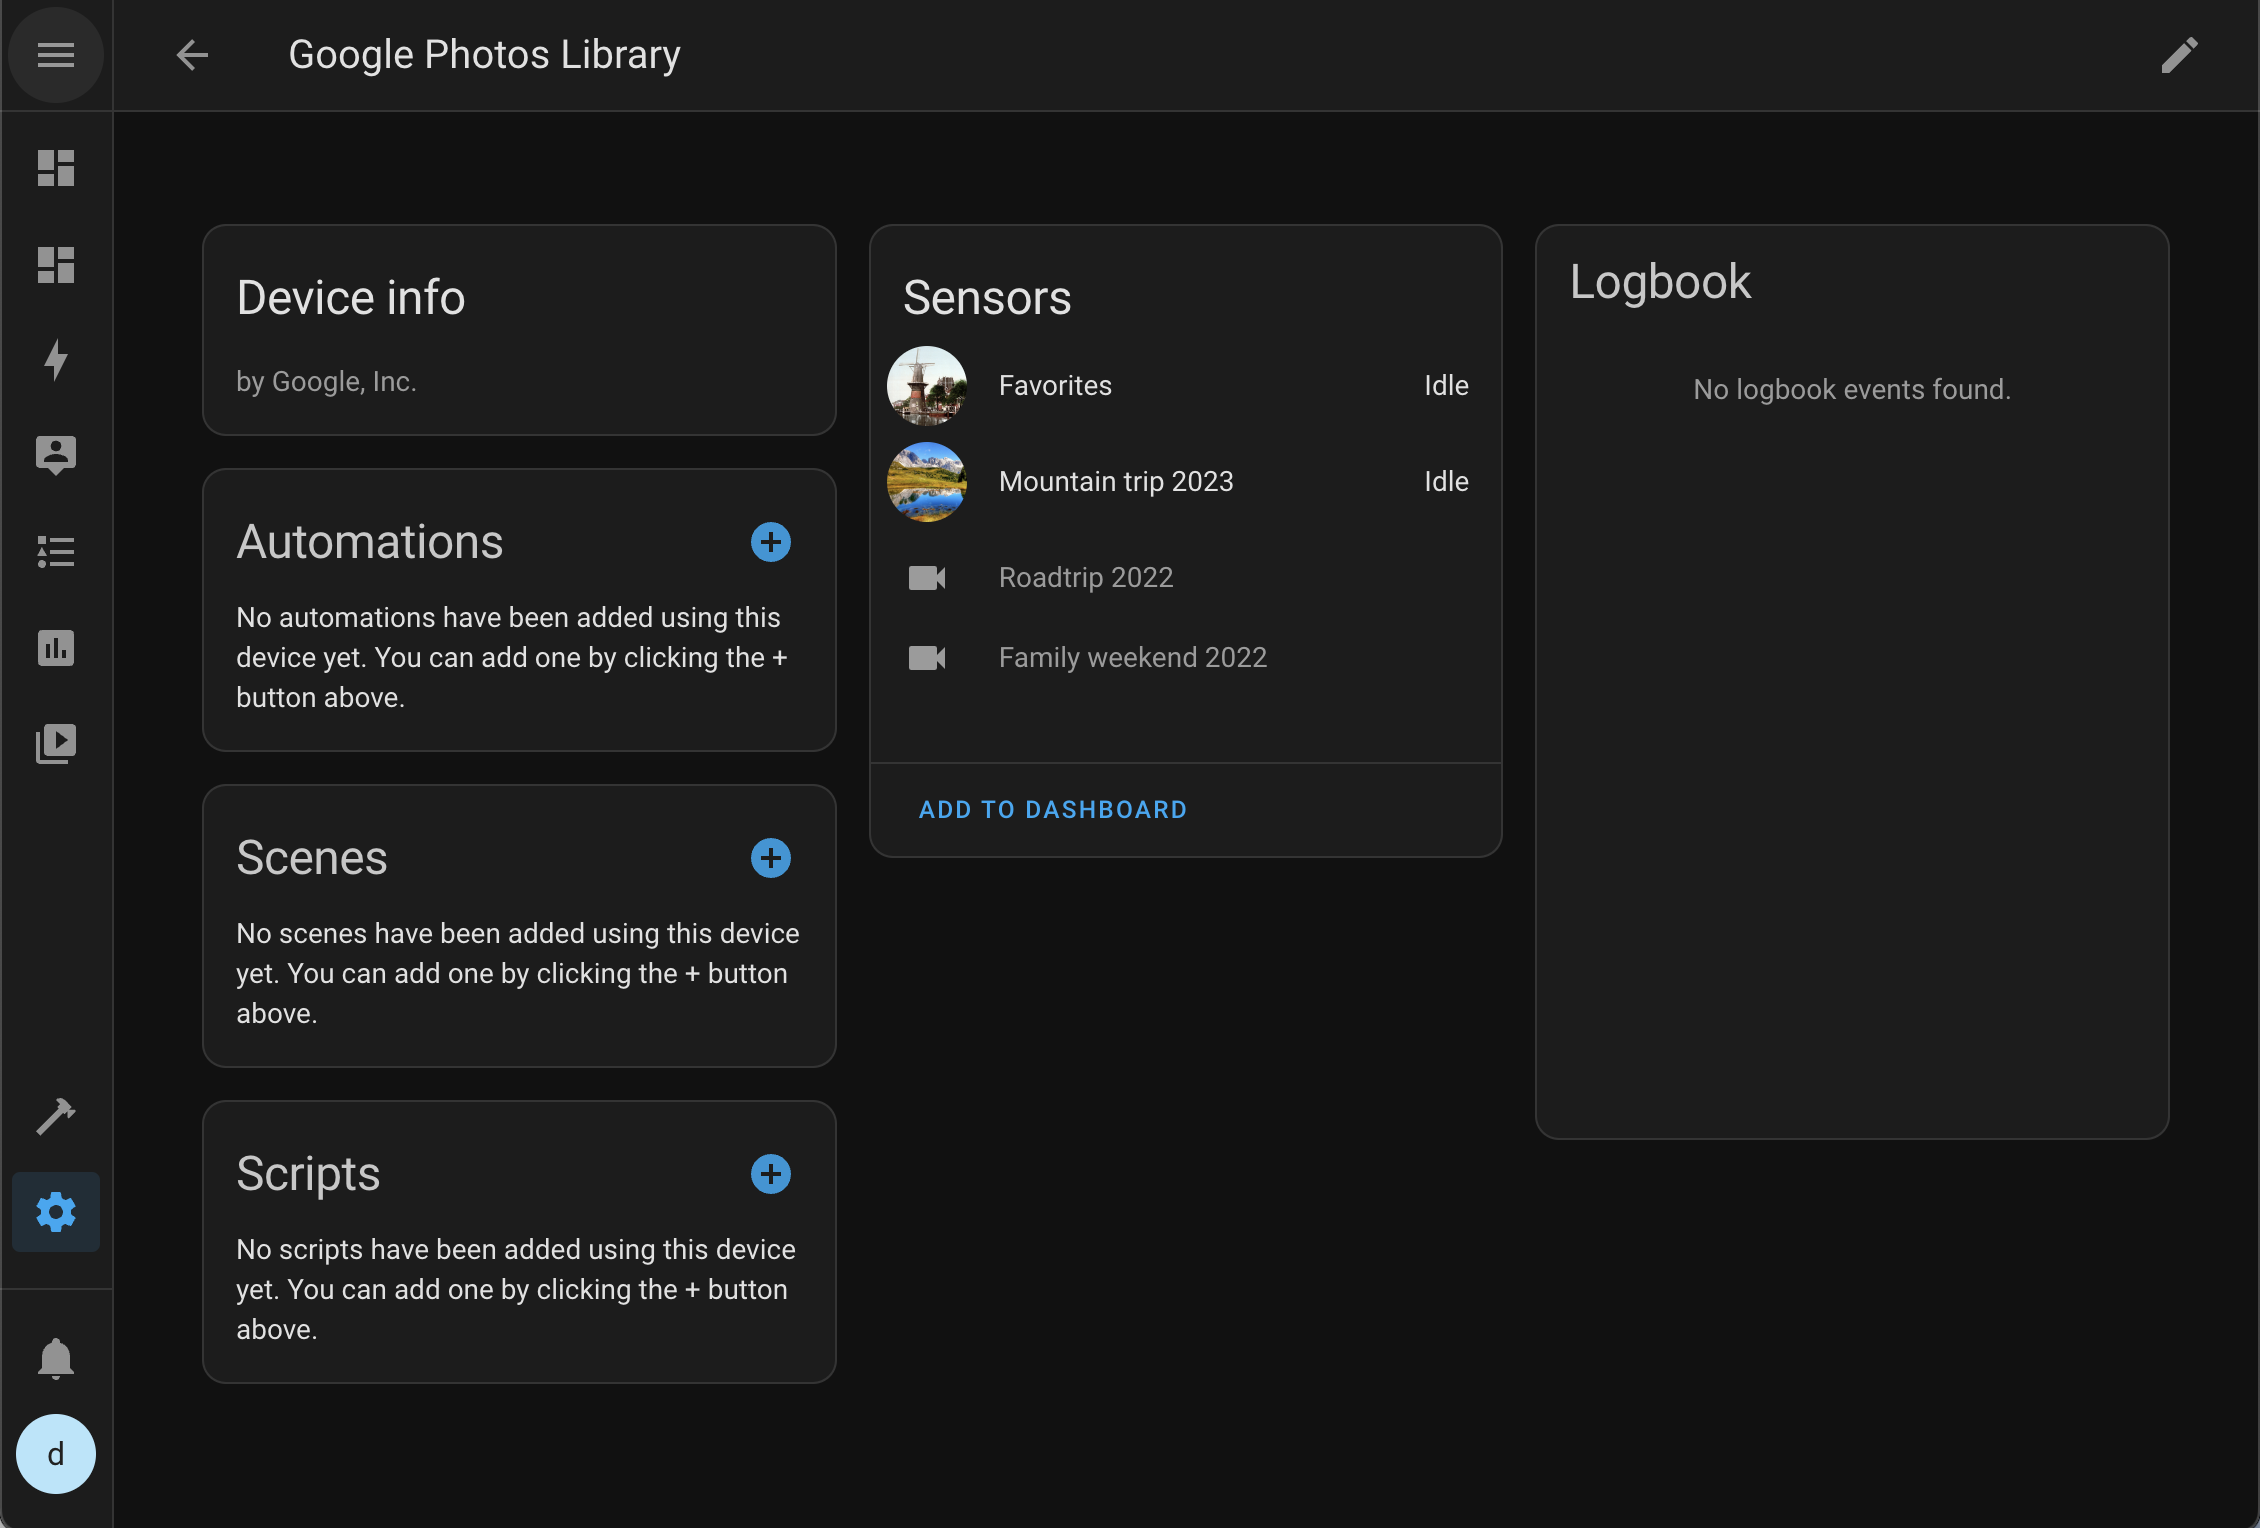
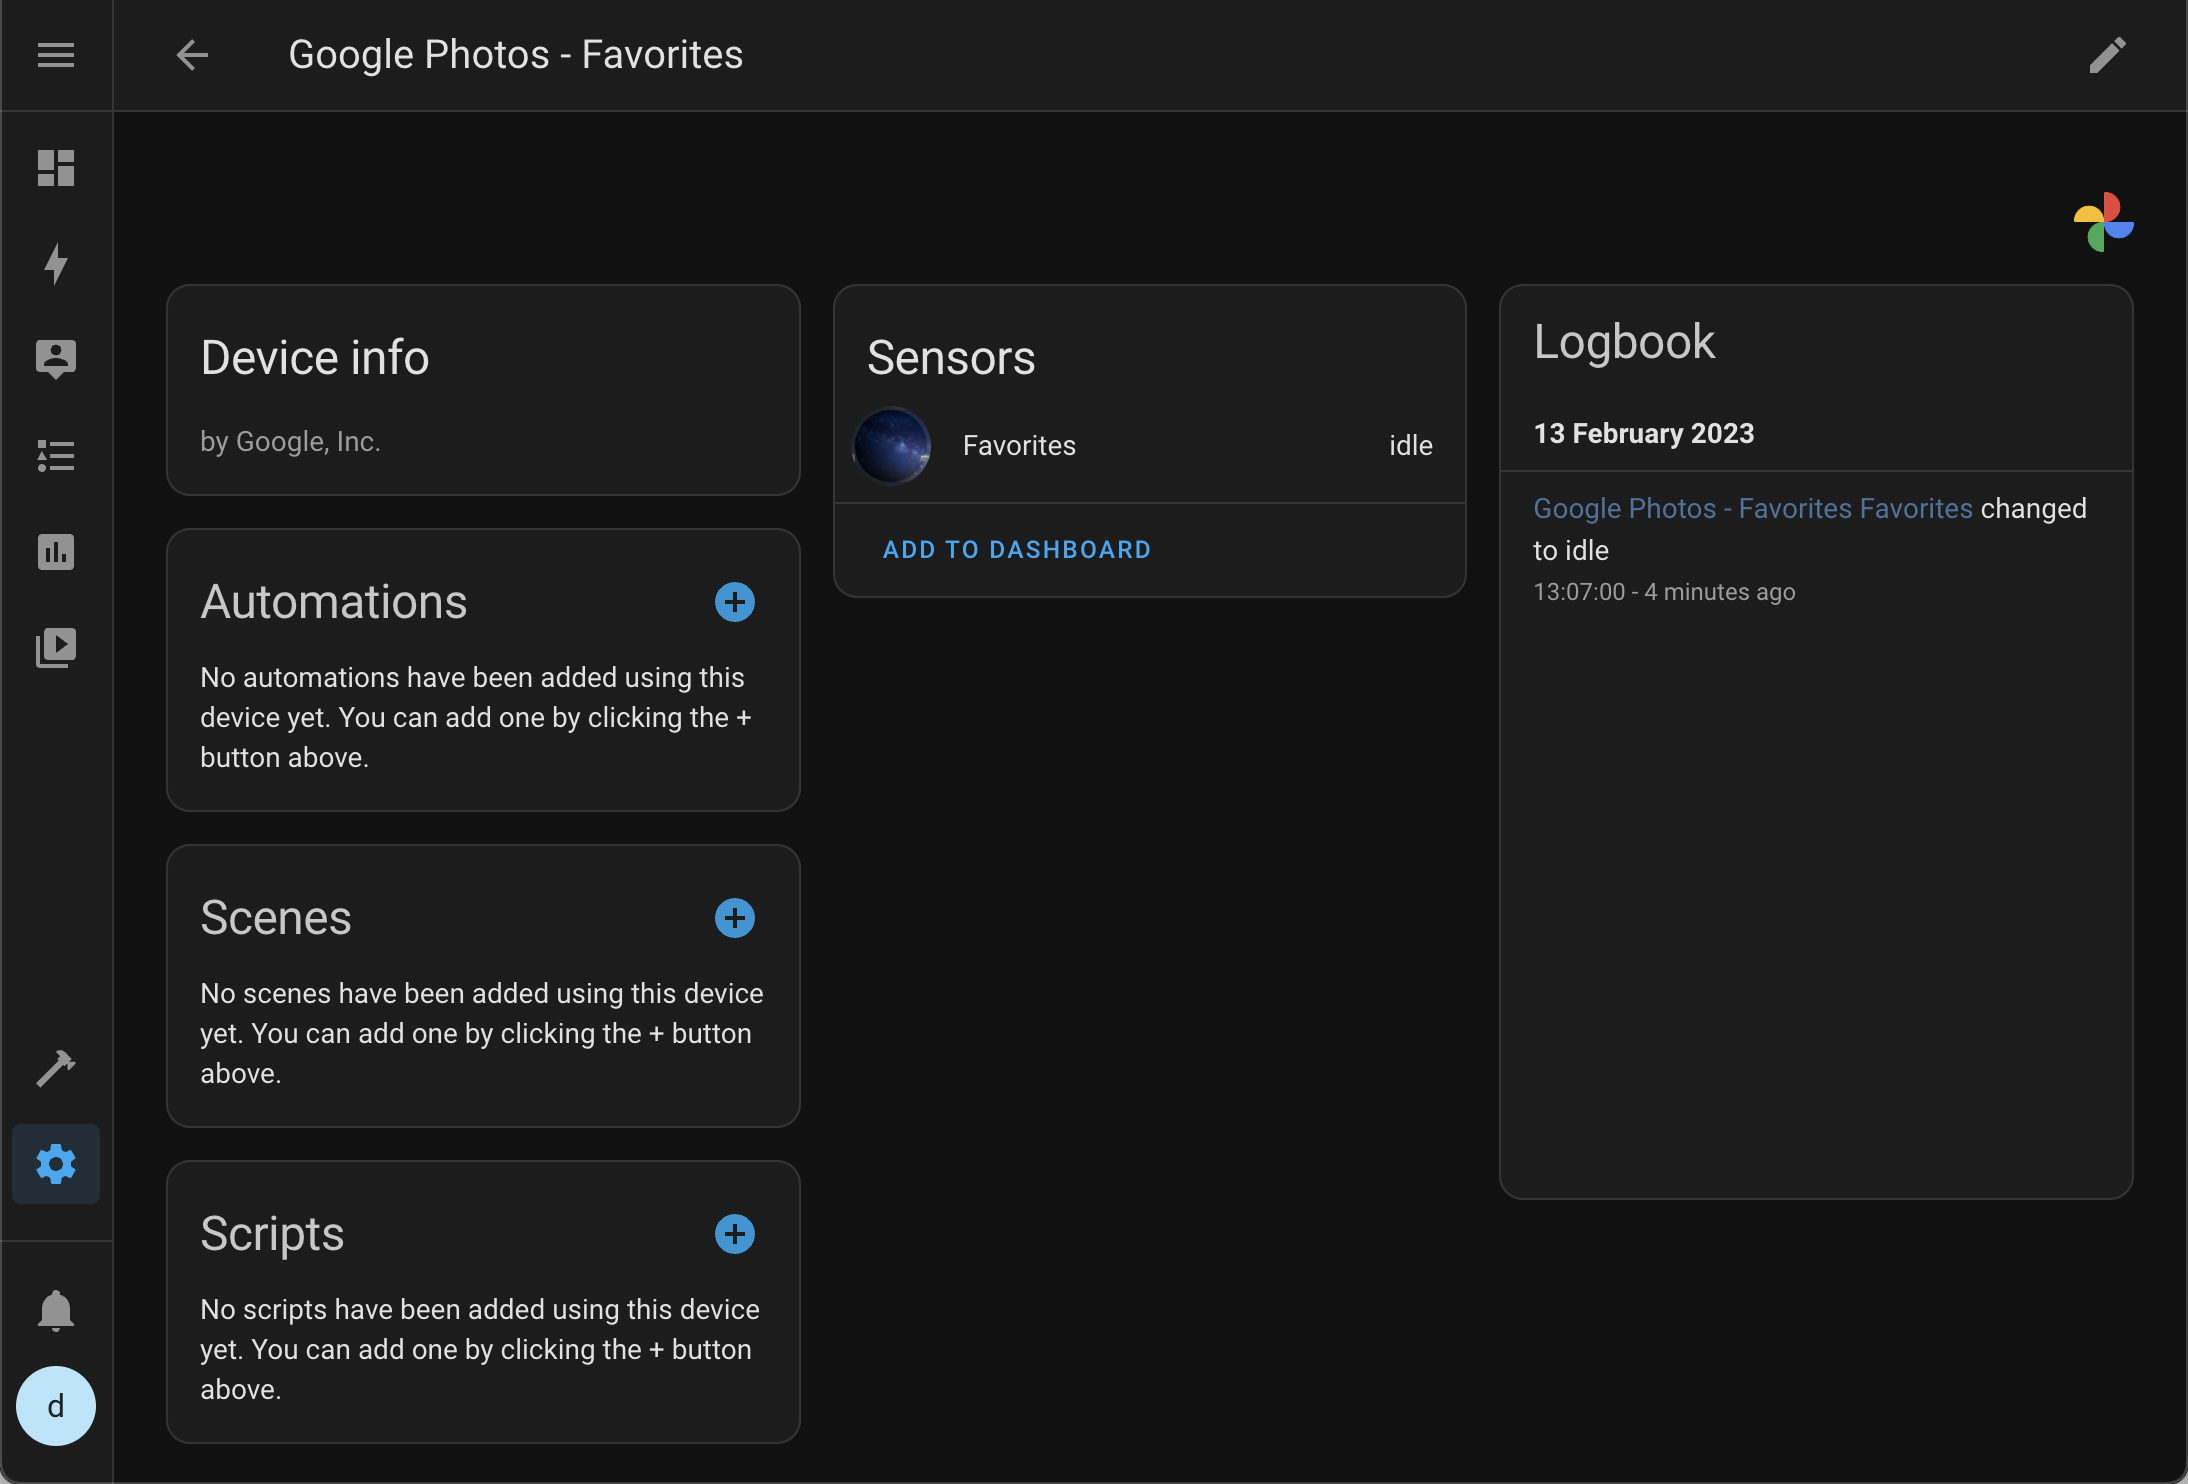
BREAKING CHANGE: Reworked configuration of visible albums

diff --git a/custom_components/google_photos/camera.py b/custom_components/google_photos/camera.py
@@ -40,6 +40,8 @@ from .const import (
     MODE_OPTIONS,
     CONF_WRITEMETADATA,
     WRITEMETADATA_DEFAULT_OPTION,
+    CONF_ALBUM_ID,
+    CONF_ALBUM_ID_FAVORITES,
 )
 
 SERVICE_NEXT_MEDIA = "next_media"
@@ -61,32 +63,27 @@ async def async_setup_entry(
     """Set up the Google Photos camera."""
     auth: AsyncConfigEntryAuth = hass.data[DOMAIN][entry.entry_id]
     service = await auth.get_resource(hass)
+    album_ids = entry.options[CONF_ALBUM_ID]
 
     def _get_albums() -> List[Album]:
-        result = service.albums().list(pageSize=50).execute()
-        album_list = result["albums"]
-        while "nextPageToken" in result and result["nextPageToken"] != "":
-            result = (
-                service.albums()
-                .list(pageSize=50, pageToken=result["nextPageToken"])
-                .execute()
-            )
-            album_list = album_list + result["albums"]
+        album_list = []
+        for album_id in album_ids:
+            if album_id == CONF_ALBUM_ID_FAVORITES:
+                album_list.append(
+                    GooglePhotosFavoritesCamera(
+                        hass.data[DOMAIN][entry.entry_id], CAMERA_TYPE
+                    )
+                )
+            else:
+                album = service.albums().get(albumId=album_id).execute()
+                album_list.append(
+                    GooglePhotosAlbumCamera(
+                        hass.data[DOMAIN][entry.entry_id], album, CAMERA_TYPE
+                    )
+                )
         return album_list
 
-    albums = await hass.async_add_executor_job(_get_albums)
-
-    def as_camera(album: Album):
-        return GooglePhotosAlbumCamera(
-            hass.data[DOMAIN][entry.entry_id], album, CAMERA_TYPE
-        )
-
-    entities = [
-        GooglePhotosFavoritesCamera(hass.data[DOMAIN][entry.entry_id], CAMERA_TYPE)
-    ] + list(map(as_camera, albums))
-    if len(entities) > 0:
-        entities[0].enabled_by_default()
-
+    entities = await hass.async_add_executor_job(_get_albums)
     platform = entity_platform.async_get_current_platform()
     platform.async_register_entity_service(
         SERVICE_NEXT_MEDIA,
@@ -105,7 +102,6 @@ class GooglePhotosBaseCamera(Camera):
 
     _auth: AsyncConfigEntryAuth
     _attr_has_entity_name = True
-    _attr_entity_registry_enabled_default = False
     _attr_icon = "mdi:image"
 
     _media_id: str | None = None
@@ -118,9 +114,7 @@ class GooglePhotosBaseCamera(Camera):
     _album_timestamp = None
 
     def __init__(
-        self,
-        auth: AsyncConfigEntryAuth,
-        description: EntityDescription,
+        self, auth: AsyncConfigEntryAuth, description: EntityDescription
     ) -> None:
         """Initialize a Google Photos Base Camera class."""
         super().__init__()
@@ -131,17 +125,8 @@ class GooglePhotosBaseCamera(Camera):
         self._attr_is_on = True
         self._attr_is_recording = False
         self._attr_is_streaming = False
-        self._attr_device_info = DeviceInfo(
-            identifiers={(DOMAIN, auth.oauth_session.config_entry.entry_id)},
-            manufacturer=MANUFACTURER,
-            name="Google Photos Library",
-        )
         self._attr_should_poll = False
         self._attr_extra_state_attributes = {}
-
-    def enabled_by_default(self) -> None:
-        """Set camera as enabled by default."""
-        self._attr_entity_registry_enabled_default = True
 
     async def next_media(self, mode=None):
         """Load the next media."""
@@ -297,8 +282,6 @@ class GooglePhotosBaseCamera(Camera):
         raise NotImplementedError("To be implemented by subclass")
 
 
-
-
 class GooglePhotosAlbumCamera(GooglePhotosBaseCamera):
     """Representation of a Google Photos Album camera."""
 
@@ -316,6 +299,14 @@ class GooglePhotosAlbumCamera(GooglePhotosBaseCamera):
         self._attr_name = album["title"]
         self._attr_unique_id = album["id"]
         self._set_media_id(album["coverPhotoMediaItemId"])
+        self._attr_device_info = DeviceInfo(
+            identifiers={
+                (DOMAIN, auth.oauth_session.config_entry.entry_id, album["id"])
+            },
+            manufacturer=MANUFACTURER,
+            name="Google Photos - " + album["title"],
+            configuration_url=album["productUrl"],
+        )
 
     def _get_album_media_list(
         self, service: PhotosLibraryService
@@ -360,6 +351,17 @@ class GooglePhotosFavoritesCamera(GooglePhotosBaseCamera):
         super().__init__(auth, description)
         self._attr_name = "Favorites"
         self._attr_unique_id = "library_favorites"
+        self._attr_device_info = DeviceInfo(
+            identifiers={
+                (
+                    DOMAIN,
+                    auth.oauth_session.config_entry.entry_id,
+                    CONF_ALBUM_ID_FAVORITES,
+                )
+            },
+            manufacturer=MANUFACTURER,
+            name="Google Photos - Favorites",
+        )
 
     async def async_added_to_hass(self) -> None:
         await self.next_media()

diff --git a/custom_components/google_photos/config_flow.py b/custom_components/google_photos/config_flow.py
@@ -3,7 +3,7 @@ from __future__ import annotations
 
 from collections.abc import Mapping
 import logging
-from typing import Any
+from typing import Any, List
 import voluptuous as vol
 
 from google.oauth2.credentials import Credentials
@@ -16,6 +16,7 @@ from homeassistant.core import callback
 from homeassistant.data_entry_flow import FlowResult
 from homeassistant.helpers import config_entry_oauth2_flow
 
+from .api_types import PhotosLibraryService, Album
 from .const import (
     DEFAULT_ACCESS,
     DOMAIN,
@@ -26,7 +27,9 @@ from .const import (
     INTERVAL_OPTIONS,
     INTERVAL_DEFAULT_OPTION,
     CONF_WRITEMETADATA,
-    WRITEMETADATA_DEFAULT_OPTION
+    WRITEMETADATA_DEFAULT_OPTION,
+    CONF_ALBUM_ID,
+    CONF_ALBUM_ID_FAVORITES,
 )
 
 
@@ -36,6 +39,7 @@ class OAuth2FlowHandler(
     """Config flow to handle Google Photos OAuth2 authentication."""
 
     DOMAIN = DOMAIN
+    VERSION = 2
 
     reauth_entry: ConfigEntry | None = None
 
@@ -89,7 +93,9 @@ class OAuth2FlowHandler(
         await self.async_set_unique_id(email)
         self._abort_if_unique_id_configured()
 
-        return self.async_create_entry(title=email, data=data)
+        options = dict()
+        options[CONF_ALBUM_ID] = [CONF_ALBUM_ID_FAVORITES]
+        return self.async_create_entry(title=email, data=data, options=options)
 
     @staticmethod
     @callback
@@ -107,10 +113,85 @@ class OptionsFlowHandler(config_entries.OptionsFlow):
         """Initialize options flow."""
         self.config_entry = config_entry
 
+    @property
+    def logger(self) -> logging.Logger:
+        """Return logger."""
+        return logging.getLogger(__name__)
+
+    async def _get_albumselect_schema(self) -> vol.Schema:
+        """Return album selection form"""
+
+        credentials = Credentials(self.config_entry.data[CONF_TOKEN][CONF_ACCESS_TOKEN])
+
+        def get_photoslibrary() -> PhotosLibraryService:
+            return build(
+                "photoslibrary",
+                "v1",
+                credentials=credentials,
+                static_discovery=False,
+            )
+
+        def get_albums() -> List[Album]:
+            service: PhotosLibraryService = get_photoslibrary()
+            result = service.albums().list(pageSize=50).execute()
+            album_list = result["albums"]
+            while "nextPageToken" in result and result["nextPageToken"] != "":
+                result = (
+                    service.albums()
+                    .list(pageSize=50, pageToken=result["nextPageToken"])
+                    .execute()
+                )
+                album_list = album_list + result["albums"]
+            return album_list
+
+        albums = await self.hass.async_add_executor_job(get_albums)
+        album_selection = dict({CONF_ALBUM_ID_FAVORITES: "Favorites"})
+        for album in albums:
+            album_selection[album["id"]] = album["title"]
+
+        return vol.Schema(
+            {
+                vol.Required(CONF_ALBUM_ID): vol.In(album_selection),
+            }
+        )
+
     async def async_step_init(self, user_input=None):
         """Handle options flow."""
+        return self.async_show_menu(
+            step_id="init",
+            menu_options=["albumselect", "settings"],
+            description_placeholders={
+                "model": "Example model",
+            },
+        )
+
+    async def async_step_albumselect(
+        self, user_input: dict[str, Any] = None
+    ) -> FlowResult:
+        """Set the album used."""
+        self.logger.debug(
+            "async_albumselect_confirm called with user_input: %s", user_input
+        )
+
+        # user input was not provided.
+        if user_input is None:
+            data_schema = await self._get_albumselect_schema()
+            return self.async_show_form(step_id="albumselect", data_schema=data_schema)
+
+        album_id = user_input[CONF_ALBUM_ID]
+        albums = self.config_entry.options.get(CONF_ALBUM_ID, []).copy()
+        if album_id not in albums:
+            albums.append(album_id)
+        data = self.config_entry.options.copy()
+        data.update({CONF_ALBUM_ID: albums})
+        return self.async_create_entry(title="", data=data)
+
+    async def async_step_settings(self, user_input=None):
+        """Handle options flow."""
         if user_input is not None:
-            return self.async_create_entry(title="", data=user_input)
+            data = self.config_entry.options.copy()
+            data.update(user_input)
+            return self.async_create_entry(title="", data=data)
 
         data_schema = vol.Schema(
             {
@@ -134,4 +215,4 @@ class OptionsFlowHandler(config_entries.OptionsFlow):
                 ): bool,
             }
         )
-        return self.async_show_form(step_id="init", data_schema=data_schema)
+        return self.async_show_form(step_id="settings", data_schema=data_schema)

diff --git a/custom_components/google_photos/__init__.py b/custom_components/google_photos/__init__.py
@@ -1,6 +1,7 @@
 """Support for Google Photos."""
 from __future__ import annotations
 
+import logging
 from aiohttp.client_exceptions import ClientError, ClientResponseError
 
 from homeassistant.config_entries import ConfigEntry, ConfigEntryState
@@ -20,8 +21,23 @@ from .const import DATA_AUTH, DOMAIN
 PLATFORMS = [Platform.CAMERA]
 
 
+async def async_migrate_entry(hass, config_entry: ConfigEntry):
+    """Migrate old entry."""
+    _LOGGER = logging.getLogger(__name__)
+    _LOGGER.debug("Migrating from version %s", config_entry.version)
+
+    if config_entry.version == 1:
+        _LOGGER.error("Migration failed, please remove / add integration.")
+        return False
+
+    _LOGGER.info("Migration to version %s successful", config_entry.version)
+
+    return True
+
+
 async def async_setup_entry(hass: HomeAssistant, entry: ConfigEntry) -> bool:
     """Set up Google Photos from a config entry."""
+    entry.async_on_unload(entry.add_update_listener(update_listener))
     implementation = await async_get_config_entry_implementation(hass, entry)
     session = OAuth2Session(hass, entry, implementation)
     auth = AsyncConfigEntryAuth(async_get_clientsession(hass), session)
@@ -40,6 +56,11 @@ async def async_setup_entry(hass: HomeAssistant, entry: ConfigEntry) -> bool:
     hass.config_entries.async_setup_platforms(entry, PLATFORMS)
 
     return True
+
+
+async def update_listener(hass, entry):
+    """Handle options update."""
+    await hass.config_entries.async_reload(entry.entry_id)
 
 
 async def async_unload_entry(hass: HomeAssistant, entry: ConfigEntry) -> bool:

diff --git a/custom_components/google_photos/const.py b/custom_components/google_photos/const.py
@@ -9,6 +9,9 @@ DEFAULT_ACCESS = [
     "https://www.googleapis.com/auth/photoslibrary.readonly",
 ]
 
+CONF_ALBUM_ID = "album_id"
+CONF_ALBUM_ID_FAVORITES = "FAVORITES"
+
 CONF_MODE = "mode"
 MODE_OPTION_RANDOM = "RANDOM"
 MODE_OPTION_ALBUM_ORDER = "ALBUM_ORDER"

diff --git a/README.md b/README.md
@@ -11,7 +11,7 @@
 [![Discord][discord-shield]][discord]
 [![Community Forum][forum-shield]][forum]
 
-This integration adds for every album in your Google Photos account a `camera` entity to your Home Assistant setup. The entity will be showing media from your Google Photo album so you can add some personalization to your dashboards.
+This integration allows you to add albums from your Google Photos account as a `camera` entity to your Home Assistant setup. The entity will be showing media from your Google Photo album so you can add some personalization to your dashboards.
 
 **This component will set up the following platforms.**
 
@@ -64,7 +64,7 @@ Platform | Description
 1. The page will now display *Link account to Home Assistant?*, note Your instance URL. If this is not correct, please refer to [My Home Assistant](https://next.home-assistant.io/integrations/my). If everything looks good, click **Link Account**.
 1. You may close the window, and return back to Home Assistant where you should see a Success! message from Home Assistant.
 
-After the setup is complete a device will be created with multiple entities, each entity being one of the albums in the linked account. Note that only one album will enabled initially to avoid overloading your setup, feel free to enable the ones you want to use.
+After the setup is complete a device will be created with entity for your favorite photos. To add more albums from you account, click configure on the integration card.
 
 ## Card setups
 
@@ -109,11 +109,9 @@ data:
 ## Notes / Remarks / Limitations
 
 - Currently the album media is cached for 30 minutes.
-- New albums can only be added by reloading the integration or restarting HA.
 
 ## Future plans
 
-- Improved updating of albums
 - Support for videos
 - Support loading media using [content categories](https://developers.google.com/photos/library/guides/apply-filters#content-categories)
 - Support loading media filtered by date/time
